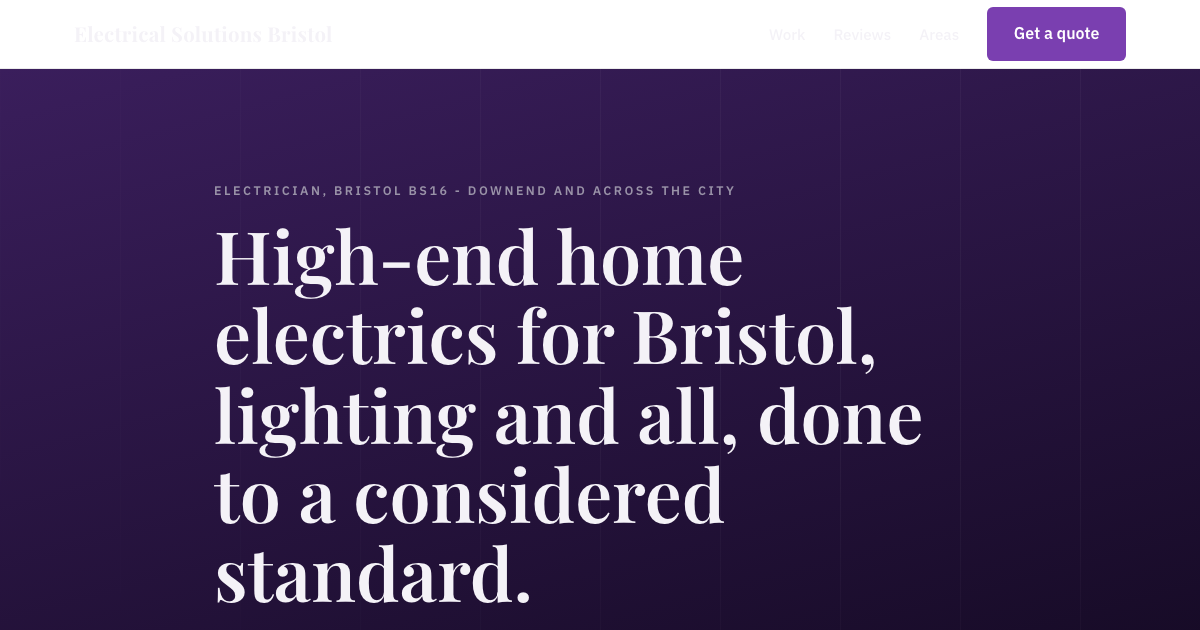
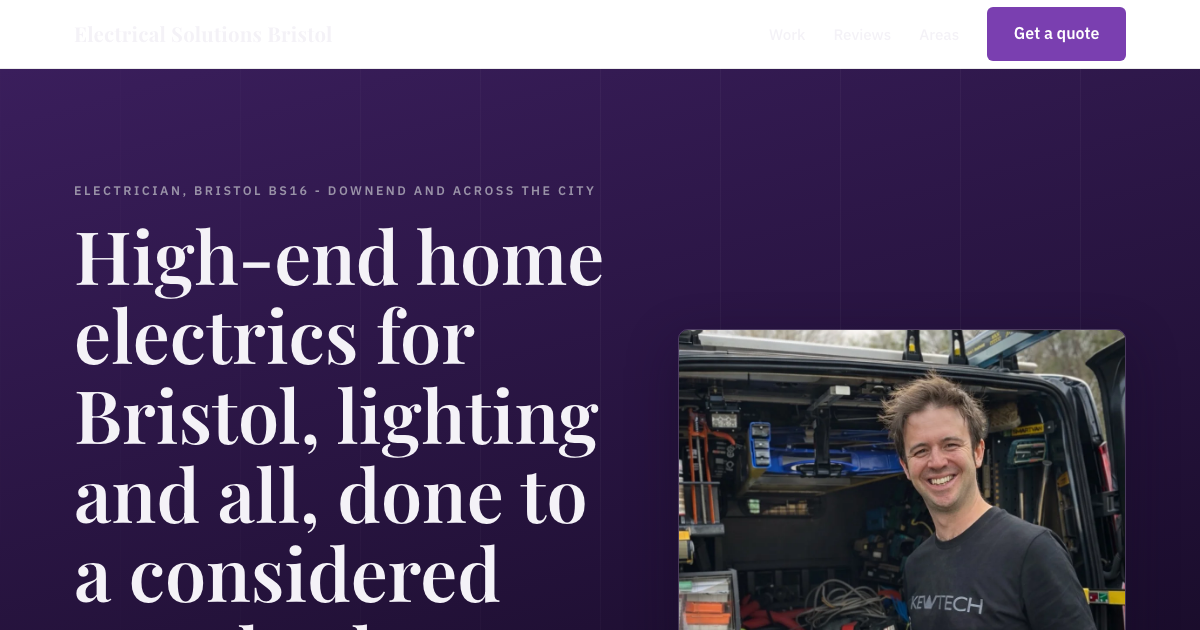
electrical-solutions-bristol: hero photo replaces pattern, side-by-side desktop / stacked mobile

diff --git a/sites/electrical-solutions-bristol-ltd/app/page.tsx b/sites/electrical-solutions-bristol-ltd/app/page.tsx
@@ -6,20 +6,23 @@ const PHONE_TEL = "07716418405";
 const GOOGLE_URL = "https://maps.google.com/?cid=9346552790654223777";
 
 const services = [
-  { mark: "LT", name: "Lighting and downlights", desc: "Downlights, feature and outdoor lighting, switches and dimmers, set out and fitted to a high standard." },
-  { mark: "CU", name: "Consumer units and fuse boards", desc: "Outdated boards replaced and brought up to current standard, sorted before any work that depends on it." },
-  { mark: "RW", name: "Rewires and new circuits", desc: "New sockets, outdoor power and added circuits, through to full and partial rewires, done neatly." },
-  { mark: "FF", name: "Fault-finding and repairs", desc: "Dodgy or intermittent electrics traced, explained, and put right, with recommendations where they help." },
+  { name: "Lighting and downlights", desc: "Downlights, feature and outdoor lighting, switches and dimmers, set out and fitted to a high standard." },
+  { name: "Consumer units and fuse boards", desc: "Outdated boards replaced and brought up to current standard, sorted before any work that depends on it." },
+  { name: "Rewires and new circuits", desc: "New sockets, outdoor power and added circuits, through to full and partial rewires, done neatly." },
+  { name: "Fault-finding and repairs", desc: "Dodgy or intermittent electrics traced, explained, and put right, with recommendations where they help." },
 ];
 
-// Typographic/solid hero (no photo behind the headline) - see build-notes.md.
-// Gallery uses the strong finished-work shots: 01 (completed consumer unit),
-// 10 (Lawrence at the kitted van, the personal brand), 08 (neat outdoor spur),
-// 04 (testing a circuit), 05 + 06 (earthing/bonding). Excluded: 02 + 07
-// (work-in-progress on bare/peeling walls) and 09 (workbench detail crop).
+// Hero now uses a copy|photo split. Hero photo is 10 (Lawrence at the kitted
+// van, the personal brand: depth, natural light, sense of place) - removed from
+// the gallery below to avoid showing the same image twice.
+// Gallery keeps the strong finished-work shots: 01 (completed consumer unit),
+// 08 (neat outdoor spur), 04 (testing a circuit), 05 + 06 (earthing/bonding).
+// Excluded: 02 + 07 (work-in-progress on bare/peeling walls), 09 (workbench
+// detail crop) and 10 (now the hero photo).
+const HERO_PHOTO = { src: "/assets/images/10-places.webp", alt: "Lawrence of Electrical Solutions Bristol at his kitted-out van" };
+
 const gallery = [
   { src: "/assets/images/01-places.webp", cap: "Completed consumer unit, Bristol" },
-  { src: "/assets/images/10-places.webp", cap: "Lawrence and the van, kitted for the job" },
   { src: "/assets/images/08-places.webp", cap: "Outdoor switched spur, Bristol" },
   { src: "/assets/images/04-places.webp", cap: "Testing a finished circuit, Bristol" },
   { src: "/assets/images/05-places.webp", cap: "Earth bonding, Bristol" },
@@ -92,19 +95,24 @@ export default function Page() {
       </nav>
 
       <main id="top">
-        {/* HERO - typographic/solid on deep amethyst */}
+        {/* HERO - copy left / photo right (stacks to copy-then-photo on mobile) */}
         <section className="hero" data-section-id="hero">
           <div className="container hero-inner">
-            <p className="eyebrow">Electrician, Bristol BS16 - Downend and across the city</p>
-            <h1>High-end home electrics for Bristol, lighting and all, done to a considered standard.</h1>
-            <p className="hero-sub">
-              Lawrence fits lighting and downlights, upgrades consumer units, rewires and chases down faults across Bristol and the BS postcodes. The board and the safety sorted first, the latest solutions rather than the same old kit, and the job left tidy.
-            </p>
-            <div className="hero-cta">
-              <a className="btn btn-primary" href="#quote">Get a quote</a>
-              <a className="btn btn-secondary" href={`tel:${PHONE_TEL}`} style={{ color: "#fff", borderColor: "#fff" }}>Call Lawrence, {PHONE}</a>
+            <div className="hero-copy">
+              <p className="eyebrow">Electrician, Bristol BS16 - Downend and across the city</p>
+              <h1>High-end home electrics for Bristol, lighting and all, done to a considered standard.</h1>
+              <p className="hero-sub">
+                Lawrence fits lighting and downlights, upgrades consumer units, rewires and chases down faults across Bristol and the BS postcodes. The board and the safety sorted first, the latest solutions rather than the same old kit, and the job left tidy.
+              </p>
+              <div className="hero-cta">
+                <a className="btn btn-primary" href="#quote">Get a quote</a>
+                <a className="btn btn-secondary" href={`tel:${PHONE_TEL}`} style={{ color: "#fff", borderColor: "#fff" }}>Call Lawrence, {PHONE}</a>
+              </div>
+              <p className="hero-proof"><span className="accent-text">5.0</span> on Google · 135 reviews</p>
             </div>
-            <p className="hero-proof"><span className="accent-text">5.0</span> on Google · 135 reviews</p>
+            <div className="hero-media">
+              <img src={HERO_PHOTO.src} alt={HERO_PHOTO.alt} className="hero-photo" />
+            </div>
           </div>
         </section>
 
@@ -147,10 +155,10 @@ export default function Page() {
             <p className="section-intro" data-reveal>Domestic electrical work across Bristol, from a single light to a full rewire.</p>
             <div style={{ marginTop: "1.5rem" }}>
               {services.map((s, i) => (
-                <div key={s.mark} data-reveal>
+                <div key={s.name} data-reveal>
                   {i > 0 ? <div className="filament-rule" role="presentation" /> : null}
                   <div className="service-row">
-                    <div className="service-mark">{s.mark}</div>
+                    <span className="service-mark" aria-hidden="true" />
                     <div>
                       <div className="service-name">{s.name}</div>
                       <p className="service-desc">{s.desc}</p>

diff --git a/sites/electrical-solutions-bristol-ltd/app/globals.css b/sites/electrical-solutions-bristol-ltd/app/globals.css
@@ -180,7 +180,7 @@ img { max-width: 100%; display: block; }
   #nav-mobile, #nav-scrim, .menu-toggle span { transition-duration: 0s; }
 }
 
-/* ---------- Hero (full viewport, responsive, typographic/solid) ---------- */
+/* ---------- Hero (copy left / photo right; stacks copy-then-photo on mobile) ---------- */
 .hero {
   position: relative; color: var(--surface); overflow: hidden;
   min-height: 100vh; min-height: 100dvh;
@@ -196,17 +196,41 @@ img { max-width: 100%; display: block; }
   -webkit-mask-image: radial-gradient(120% 90% at 80% 20%, #000 30%, transparent 75%);
   mask-image: radial-gradient(120% 90% at 80% 20%, #000 30%, transparent 75%);
 }
-.hero-inner { position: relative; z-index: 2; padding: 7rem 1.5rem 4rem; max-width: 820px; }
+/* Mobile: single column, copy first then photo below (headline still leads). */
+.hero-inner {
+  position: relative; z-index: 2;
+  padding: 7rem 1.5rem 4rem;
+  display: grid; grid-template-columns: 1fr; gap: 2.25rem;
+  align-items: center; width: 100%;
+}
+.hero-copy { min-width: 0; }
 .hero .eyebrow { color: var(--pewter); }
 .hero h1 { font-size: clamp(2.5rem, 6.2vw, 4.6rem); letter-spacing: 0; color: var(--surface); }
 .hero-sub { font-size: 1.2rem; margin: 1.4rem 0 1.9rem; color: #d9d2e6; max-width: 640px; }
 .hero-cta { display: flex; flex-wrap: wrap; gap: 0.85rem; align-items: center; }
 .hero-proof { margin: 1.4rem 0 0; font-size: 0.92rem; font-weight: 600; color: #d9d2e6; letter-spacing: 0.02em; }
 .hero-proof .accent-text { color: #c79df0; }
+/* Hero photo */
+.hero-media { min-width: 0; }
+.hero-photo {
+  width: 100%; height: auto; max-height: 60vh; object-fit: cover;
+  border-radius: 10px; border: 1px solid rgba(154,147,168,0.32);
+  box-shadow: 0 18px 50px rgba(21, 10, 36, 0.45);
+}
 @media (max-width: 640px) {
   .hero-cta { flex-direction: column; align-items: stretch; }
   .hero-cta .btn { width: 100%; }
   .hero-proof { text-align: left; }
+  .hero-photo { max-height: 48vh; }
+}
+/* Desktop: copy ~55% / photo ~45% side by side. */
+@media (min-width: 900px) {
+  .hero-inner {
+    grid-template-columns: 55fr 45fr;
+    gap: 3.5rem;
+    padding: 7rem 1.5rem 6rem;
+  }
+  .hero-photo { max-height: 78vh; }
 }
 
 /* ---------- Proof marquee ---------- */
@@ -230,8 +254,17 @@ img { max-width: 100%; display: block; }
 .standard-item p { color: #d3cae2; max-width: 760px; margin: 0; font-size: 1.1rem; }
 
 /* ---------- Services ---------- */
-.service-row { display: grid; grid-template-columns: 3.5rem 1fr; gap: 1rem; padding: 1.4rem 0; align-items: start; }
-.service-mark { font-family: var(--font-display), serif; font-weight: 700; font-size: 1.15rem; color: var(--accent); letter-spacing: 0.04em; }
+.service-row { display: grid; grid-template-columns: 1.25rem 1fr; gap: 1rem; padding: 1.4rem 0; align-items: start; }
+/* Brand-accent dot marker, aligned to the first line of the service title. */
+.service-mark {
+  display: block;
+  width: 9px; height: 9px;
+  border-radius: 50%;
+  background: var(--accent);
+  /* nudge down so the dot sits on the cap-height baseline of the title's first line */
+  margin-top: 0.62rem;
+  justify-self: center;
+}
 .service-name { font-weight: 600; font-size: 1.2rem; margin-bottom: 0.2rem; font-family: var(--font-display), serif; }
 .service-desc { color: var(--muted); margin: 0; }
 

diff --git a/sites/electrical-solutions-bristol-ltd/build-notes.md b/sites/electrical-solutions-bristol-ltd/build-notes.md
@@ -58,7 +58,7 @@ NEEDS_MANUAL_REVIEW state. WhatsApp confirmed "WhatsApp checked: no" at gather.
 
 ## Deploy verification (2026-06-13)
 - Preferred alias: electrical-solutions-bristol-ltd.vercel.app
-- Deployment URL: https://electrical-solutions-bristol-2gc95p0vi-iulius-projects-0cb33a7b.vercel.app
+- Deployment URL: https://electrical-solutions-bristol-l5i71wybk-iulius-projects-0cb33a7b.vercel.app
 - Verified URL: https://electrical-solutions-bristol-ltd.vercel.app
 - Alias status: VERIFIED
 - Deploy manifest: `/Users/iuliusprodan/.cursor/website/briefs/electrical-solutions-bristol-ltd/deploy.json`